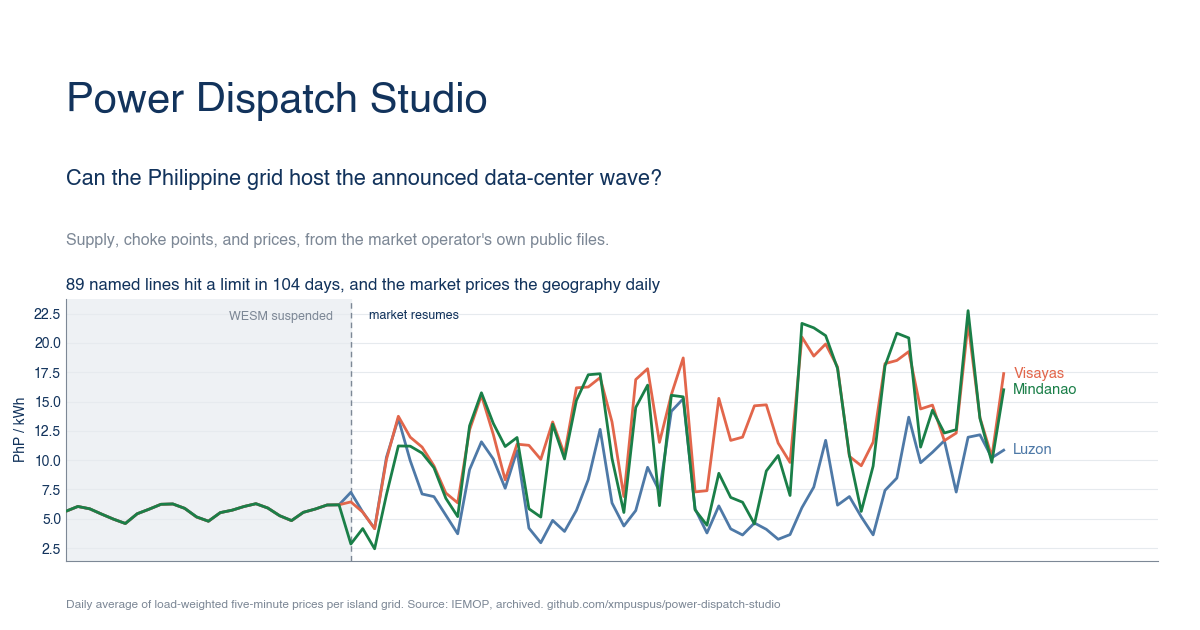
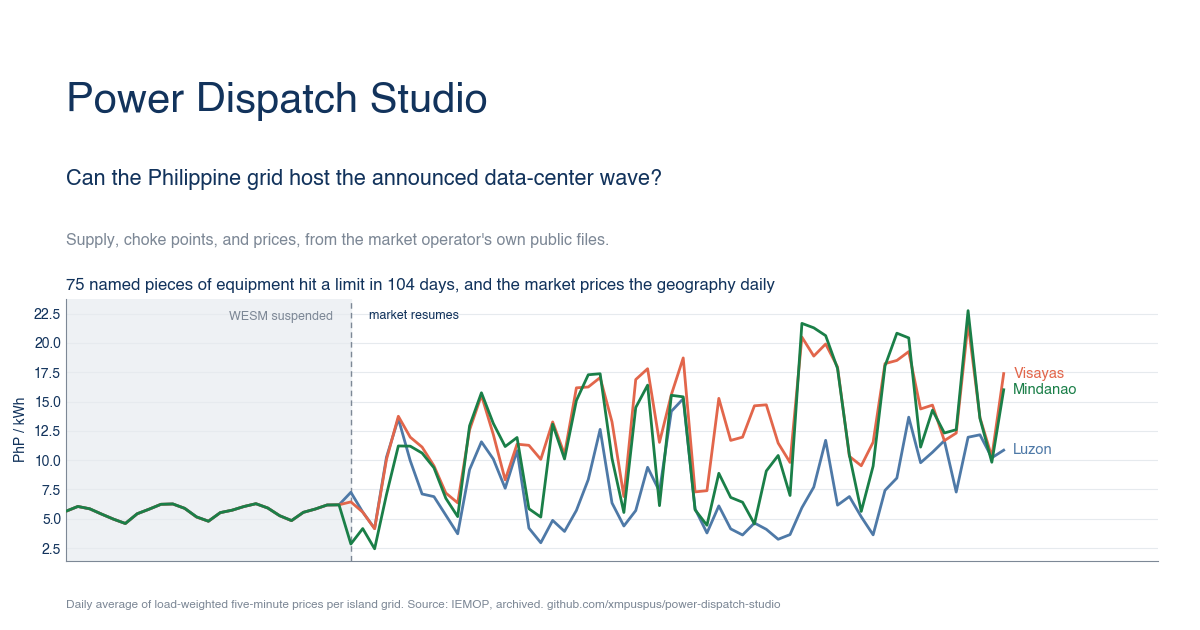
Count distinct equipment in the choke-point headline, and bake the figures the notes hand-typed
The Q2 headline said 89 distinct pieces of equipment, but 89 counts
(equipment, station, voltage) rows: a transformer is monitored under each
winding voltage and a line at each terminal, so 14 of the 89 are one physical
asset listed twice. The honest distinct-equipment count is 75, with 89 the
monitored-constraint total. Fixed the stat, the README, the methodology, and
the OG card, and pinned both numbers.

Also baked the must-run inertness figures the methodology hand-typed and had let
go stale: a per-grid-hour peak median of 10 MW across 165 grid-hours (was 153)
in 13 weekly files (was twelve), plus the MOTRD file count. And interpolated the
MOT-residual note's four numbers from the probe so they stop drifting: it still
read "Luzon runs about 2 percent high" next to the 1.5 percent residual it says
it tracks, when the 15-day probe puts the gap at 1.6 percent. De-numbered two
docstrings that carried the stale 2-percent and 99.2-percent figures.

Oracle 87 to 89 claims; every new pin fails on planted drift.

Changed region(s): [[0.1233, 0.4222, 0.6475, 0.4825]]

diff --git a/web/methodology.html b/web/methodology.html
@@ -67,7 +67,11 @@ via <code>wp-admin/admin-ajax.php</code> (action
 <td><a href="https://www.iemop.ph/market-data/congestions-manifesting-in-rtd/">RTD</a>,
 <a href="https://www.iemop.ph/market-data/congestions-manifesting-in-dap/">DAP</a></td>
 <td>The constraint league: named equipment and station, ranked by days at a limit
-(a day counts once, so a day-ahead re-run cannot inflate it). Real-time (RTD)
+(a day counts once, so a day-ahead re-run cannot inflate it). The league keys on
+equipment, station, and voltage, so a transformer appears under each winding
+voltage and a line under each terminal: over the window it holds 89 monitored
+constraints across 75 distinct pieces of equipment, and the headline count is the
+distinct-equipment one. Real-time (RTD)
 5-minute intervals and day-ahead (DAP) hourly rows are kept in separate columns,
 because the day-ahead projection re-prices through the day and its raw row count
 measures re-run persistence, not time at the limit. Two severity columns ride
@@ -227,7 +231,7 @@ from the SO dispatch instruction report)</td>
 href="https://www.iemop.ph/market-data/list-of-mot-raise-re-dispatch-based-on-so-dispatch-instruction-report/">page</a></td>
 <td>The full out-of-merit record beside the must-run subset: 97
 thousand instructions across the archived window at a pooled 55 MW
-median, against the must-run list's 5.7; two of the twelve weekly
+median, against the must-run list's 5.7 per-interval; 2 of the 13 weekly
 files were published empty and are counted as published
 (market_ops.json so_instructions). Added after the round-9 audit
 found it untriaged.</td></tr>
@@ -916,9 +920,10 @@ lifting mechanics, effectivity), so the computed series is the trigger's
 input, not a reconstruction of the cap itself.</li>
 <li><b>Must-run instructions are displayed, not dispatched, and the
 inertness finding is scoped to the must-run subset</b>: the processed
-must-run list carries a median of 10 MW across 153 instructed
-grid-hours in twelve weekly files, two orders of magnitude below the
-offer books it would constrain, so a must-take layer built from IT
+must-run list peaks at a median of 10 MW across its 165 instructed
+grid-hours in 13 weekly files (the per-interval instruction median is
+5.7 MW), two orders of magnitude below the
+offer books it would constrain, so a must-take layer built from it
 would be inert and is not built. The round-9 audit showed that
 finding does not extend to the family: the sibling MOT-raise
 re-dispatch record carries 97 thousand instructions across the

diff --git a/pipeline/market_obs.py b/pipeline/market_obs.py
@@ -1787,9 +1787,10 @@ def build_constrained_on(fleet: dict) -> dict:
 def build_security_limits(fleet: dict) -> dict:
     """Per-resource security limits used in RTD (RTDSL): the operating
     points security constraints pin resources to, per window. MAX equals
-    MIN in 99.2 percent of archived windows (regulating hydro, the Agus
-    units, is the exception), so nearly every row pair is a fixed
-    security-constrained operating point rather than a range."""
+    MIN in nearly every archived window (regulating hydro, the Agus units,
+    is the exception), so nearly every row pair is a fixed
+    security-constrained operating point rather than a range. The exact
+    pinned share is computed below and guarded in the methodology prose."""
     files = dataset_files("RTDSL")
     if not files:
         return {"available": False,
@@ -1945,8 +1946,25 @@ def build_so_instructions(fleet: dict) -> dict:
 
     # the must-run subset, measured beside it: the inertness claim is
     # scoped to THIS series and stays true; the full record is not inert
-    mru_mw = [f(r.get("SO_MW_INSTRUCTION")) for p in dataset_files("MRU")
+    mru_files = dataset_files("MRU")
+    mru_mw = [f(r.get("SO_MW_INSTRUCTION")) for p in mru_files
               for r in rows_of(p) if (r.get("RESOURCE_NAME") or "").strip()]
+    # grid-hour scale: the peak instruction in each (region, date, hour)
+    # bucket, so the median is the busiest interval of a typical instructed
+    # hour. Even that peak is tiny against the multi-GW offer books, which is
+    # why a must-take layer built from this list would be inert.
+    mru_gh_peak: dict[tuple, float] = {}
+    for p in mru_files:
+        for r in rows_of(p):
+            if not (r.get("RESOURCE_NAME") or "").strip():
+                continue
+            ts = (r.get("TIME_INTERVAL") or "").strip()
+            h = _interval_hour(ts)
+            if h is None:
+                continue
+            key = ((r.get("REGION") or "").strip(), ts[:10], h)
+            mru_gh_peak[key] = max(mru_gh_peak.get(key, 0.0),
+                                   f(r.get("SO_MW_INSTRUCTION")))
 
     # the daily per-grid instruction log: causes, named. The remarks are
     # free text, so the cause screen is a substring count (labeled), not
@@ -2019,6 +2037,8 @@ def build_so_instructions(fleet: dict) -> dict:
         "available": True,
         "motrd": {
             "weeks": weeks,
+            "n_weeks": len(weeks),
+            "n_empty_weeks": sum(1 for w in weeks if w["n_rows"] == 0),
             "n_rows": len(all_mw),
             "n_resources": len(per_res),
             "median_mw": round(_stats.median(all_mw), 1),
@@ -2033,6 +2053,10 @@ def build_so_instructions(fleet: dict) -> dict:
             "mru_median_mw": (round(_stats.median(mru_mw), 1)
                               if mru_mw else None),
             "mru_max_mw": round(max(mru_mw), 1) if mru_mw else None,
+            "mru_n_weeks": len(mru_files),
+            "mru_grid_hours": len(mru_gh_peak),
+            "mru_gh_peak_median_mw": (round(_stats.median(mru_gh_peak.values()), 1)
+                                      if mru_gh_peak else None),
             "note": ("The must-run list the methodology measured as inert "
                      "is the SUBSET; its median instruction sits at "
                      "roughly a tenth of the full MOT-raise record's, so "
@@ -2233,13 +2257,28 @@ def build_mot_dispatch_cut() -> dict:
         n = sum(w for _, w in vals)
         return round(sum(v * w for v, w in vals) / n, 1) if n else None
 
+    # Note figures interpolated from the probe so they never drift from the
+    # sample: a prior hand-typed "2 percent HIGH" went stale when the window
+    # widened from 3 to 15 days while its three sibling numbers were updated.
+    _lz = per_grid.get("luzon", {})
+    _lz_ratio = _lz.get("rtdsum_ratio") or 1.0
+    _lz_disp = _lz.get("dispatched_mw_mean") or 0.0
+    _lz_gen = _lz_disp / _lz_ratio if _lz_ratio else 0.0
+    _gap = _pool("gap_mw_mean") or 0.0
+    _residual = _pool("balance_residual_mw_mean") or 0.0
+    _import = _pool("import_mw_mean") or 0.0
+    _high_pct = round((_lz_ratio - 1) * 100, 1)
+    _gap_round = int(round(_gap / 10) * 10)
+    _import_frac = int(round(_import / _gap * 100)) if _gap else 0
+    _residual_pct = round(_residual / _lz_gen * 100, 1) if _lz_gen else 0.0
+
     return {
         "available": True,
         "days": len(days),
         "dates": [d["date"] for d in days],
         "per_grid": per_grid,
         # the retired "untested lead": the RTDSUM import/export/loss columns do
-        # NOT close the Luzon 2% gap. import is ~1/4 of the gap, and the gap is
+        # NOT close the small Luzon gap. import is a fraction of the gap, and the gap is
         # RTDSUM's own energy-balance residual, the part those columns leave over
         "luzon_residual_probe": {
             "gap_mw_mean": _pool("gap_mw_mean"),
@@ -2260,14 +2299,14 @@ def build_mot_dispatch_cut() -> dict:
                  "and that reconciliation is NOT clean everywhere. The "
                  "Visayas and Mindanao sit inside 1 percent, which is "
                  "what a cleared-MW reading predicts. Luzon runs about "
-                 "2 percent HIGH and we do not know why. The obvious "
+                 f"{_high_pct} percent HIGH and we do not know why. The obvious "
                  "candidate is ruled out: pumped storage and batteries "
                  "charging would count as dispatched offers while not "
                  "being generation, but they total 0.2 MW on a sampled "
-                 "Luzon interval, nowhere near the roughly 160 MW gap. "
+                 f"Luzon interval, nowhere near the roughly {_gap_round} MW gap. "
                  "The RTDSUM import, export and loss columns are a "
                  "measured no-op, not an untested lead: import is about "
-                 "a quarter of the gap and it tracks RTDSUM's own ~1.5 "
+                 f"{_import_frac} percent of the gap and it tracks RTDSUM's own about {_residual_pct} "
                  "percent energy-balance residual at a correlation near "
                  "0.9, so it is the term those columns leave over rather "
                  "than one they explain. The open cause is most likely a "

diff --git a/scripts/verify_claims.py b/scripts/verify_claims.py
@@ -205,9 +205,17 @@ def canonical():
                    blurb)
     curtail_days, curtail_mwh = (int(mc.group(1)), mc.group(2)) if mc else (0, "0")
 
+    mru = mo["so_instructions"]["mru_contrast"]
     return {
         "days_covered": cg["days_covered"],
         "distinct_equipment": cg["distinct_equipment"],
+        "constraint_records": cg["constraint_records"],
+        "mru_grid_hours": _n(mru["mru_grid_hours"], 0),
+        "mru_gh_peak_median": _n(mru["mru_gh_peak_median_mw"], 0),
+        "mru_median": _n(mru["mru_median_mw"], 1),
+        "mru_n_weeks": _n(mru["mru_n_weeks"], 0),
+        "motrd_n_weeks": _n(mo["so_instructions"]["motrd"]["n_weeks"], 0),
+        "motrd_empty_weeks": _n(mo["so_instructions"]["motrd"]["n_empty_weeks"], 0),
         "leyte_cebu_dap_days": _leyte_cebu("dap_days"),
         "top_corridor_dap_days": _corridor("5DAAN_4TAB2", "dap_days"),
         "top_corridor_rtd_days": _corridor("5DAAN_4TAB2", "rtd_days"),
@@ -375,8 +383,9 @@ REGISTRY = [
      re.compile(r"the run settlement\s*\n?\s*actually sees, on \*\*(\d+) days\*\*"),
      ["top_corridor_rtd_days"]),
     ("README.md",
-     re.compile(r"Across the (\d+)-day window, \*\*(\d+) distinct pieces of equipment\*\*"),
-     ["days_covered", "distinct_equipment"]),
+     re.compile(r"Across the (\d+)-day window, \*\*(\d+) distinct pieces of equipment\*\*"
+                r" hit a limit at least\s+once, in \*\*(\d+) monitored constraints\*\*"),
+     ["days_covered", "distinct_equipment", "constraint_records"]),
     ("README.md",
      re.compile(r"below the stated requirement on (\d+) of the window's (\d+) days\*\*"),
      ["luzon_reserve_short_days", "days_covered"]),
@@ -424,6 +433,17 @@ REGISTRY = [
     ("web/methodology.html",
      re.compile(r"must-run subset: (\d+)\s*\n?\s*thousand instructions across the archived window"),
      ["motrd_thousands"]),
+    # the must-run inertness measure: per-grid-hour peak median, grid-hours,
+    # weekly-file count, and the per-interval median, all rolling with the archive
+    ("web/methodology.html",
+     re.compile(r"peaks at a median of (\d+) MW across its (\d+) instructed\s+"
+                r"grid-hours in (\d+) weekly files \(the per-interval instruction "
+                r"median is\s+(\d+\.\d) MW\)"),
+     ["mru_gh_peak_median", "mru_grid_hours", "mru_n_weeks", "mru_median"]),
+    ("web/methodology.html",
+     re.compile(r"must-run list's (\d+\.\d) per-interval; (\d+) of the (\d+) weekly\s+"
+                r"files were published empty"),
+     ["mru_median", "motrd_empty_weeks", "motrd_n_weeks"]),
     ("web/methodology.html",
      re.compile(r"re-dispatch record carries (\d+) thousand instructions across the"),
      ["motrd_thousands"]),

diff --git a/pipeline/build_data.py b/pipeline/build_data.py
@@ -196,7 +196,13 @@ def build_congestion() -> dict:
         "window": {"from": days[0], "to": days[-1]} if days else None,
         "days_covered": len(days),
         "days_with_base_case_binding": len(base_days),
-        "distinct_equipment": len(out),
+        # A transformer is monitored under each winding voltage and a line at
+        # each terminal station, so the league keys (equipment, station,
+        # voltage) split one physical asset into several rows. Count distinct
+        # equipment NAMES for the physical-facility headline; keep the row
+        # count as the monitored-constraint total.
+        "distinct_equipment": len({e["equipment"] for e in out}),
+        "constraint_records": len(out),
         "total_rtd_intervals": sum(e["rtd_intervals"] for e in out),
         "total_dap_rows": sum(e["dap_rows"] for e in out),
         "league": out[:30],
@@ -673,9 +679,10 @@ def build_answers(cong, rel, prices, outs) -> dict:
                      f"curtailed on {curt_days} grid-day(s) in this archive "
                      f"window ({curt_mwh:,} MWh). Headroom for a wave this size "
                      f"means new firm supply, not spare change.")
-    q2_stat = (f"{cong.get('distinct_equipment', 0)} pieces of equipment hit "
-               f"limits across the real-time and day-ahead runs on "
-               f"{cong.get('days_covered', 0)} archive days; the "
+    q2_stat = (f"{cong.get('distinct_equipment', 0)} distinct pieces of "
+               f"equipment ({cong.get('constraint_records', 0)} monitored "
+               f"constraints) hit limits across the real-time and day-ahead "
+               f"runs on {cong.get('days_covered', 0)} archive days; the "
                f"Leyte-Luzon HVDC ran at max or offline "
                f"{A['hvdc_binding_share_dec2025_pct']}% of Dec 2025")
     q2_blurb = ("The inter-island links and named 230 kV corridors already bind "

diff --git a/pipeline/merit_order.py b/pipeline/merit_order.py
@@ -45,9 +45,10 @@ Measured, not assumed:
     agreement rate means nothing without them.
   - MOT's MW is CLEARED, not as-bid: summed per region it tracks RTDSUM
     generation at a ratio near 1.0 on the Visayas and Mindanao (a per-grid
-    rtdsum_ratio is stored and gated at 5 percent). Luzon runs about 2
-    percent high and that residual is open (see the baked note; storage
-    charging is ruled out). Resources show the cleared reading directly, a
+    rtdsum_ratio is stored and gated at 5 percent). Luzon runs a small
+    percent high and that residual is open (see the baked note for the
+    current figure; storage charging is ruled out). Resources show the
+    cleared reading directly, a
     coal unit offering a flat 600 MW all day while its dispatched MW moves
     between 349 and 600.
   - the sys region is the exact sum of the three grids on every interval
@@ -297,7 +298,7 @@ def derive_day(date: str, b64: str, name: str) -> dict:
 
     # the Luzon residual probe: per interval, the MOT dispatch-minus-generation
     # gap and RTDSUM's own energy-balance residual (GEN+IMP-REQT-LOSS-EXP), so
-    # the "import/export/loss close the 2% gap" lead can be measured, not
+    # the "import/export/loss close the gap" lead can be measured, not
     # guessed. Import is far too small and the two residuals move together.
     lz_gap: list = []
     lz_bal_resid: list = []

diff --git a/scripts/og_card.py b/scripts/og_card.py
@@ -63,9 +63,9 @@ def render(path, w_in, h_in, dpi):
     ax.set_xlim(0, len(dates) + 12)
     ax.set_ylabel("PhP / kWh", fontsize=10)
     ax.set_xticks([])
-    ax.set_title(f'{C["distinct_equipment"]} named lines hit a limit in '
-                 f'{C["days_covered"]} days, and the market prices the geography '
-                 "daily", fontsize=12, color=vz.NAVY, loc="left")
+    ax.set_title(f'{C["distinct_equipment"]} named pieces of equipment hit a '
+                 f'limit in {C["days_covered"]} days, and the market prices the '
+                 "geography daily", fontsize=12, color=vz.NAVY, loc="left")
     vz.tufte(ax, grid="y")
 
     fig.text(0.055, 0.035,

diff --git a/README.md b/README.md
@@ -62,8 +62,10 @@ the real-time count how often it actually bound. The same corridor IEMOP's Decem
 
 ![The constraint league filling in bar by bar: named transmission equipment ranked by days at a binding limit over the archive window, the Leyte-Cebu corridor lines highlighted in coral topping the list by day-ahead days at a limit](docs/constraint-league.gif)
 
-Across the 104-day window, **89 distinct pieces of equipment** hit a limit at least
-once. The map ranks them by days at a limit (a day counts once, so a day-ahead
+Across the 104-day window, **75 distinct pieces of equipment** hit a limit at least
+once, in **89 monitored constraints** (a transformer is listed under each winding
+voltage and a line at each terminal, so one physical asset can hold several limits).
+The map ranks the constraints by days at a limit (a day counts once, so a day-ahead
 re-run cannot inflate it) and keeps the real-time and day-ahead counts in separate
 columns, because the day-ahead projection re-prices hourly and its raw row count
 measures re-run persistence, not time at the limit. Per-equipment receipts: